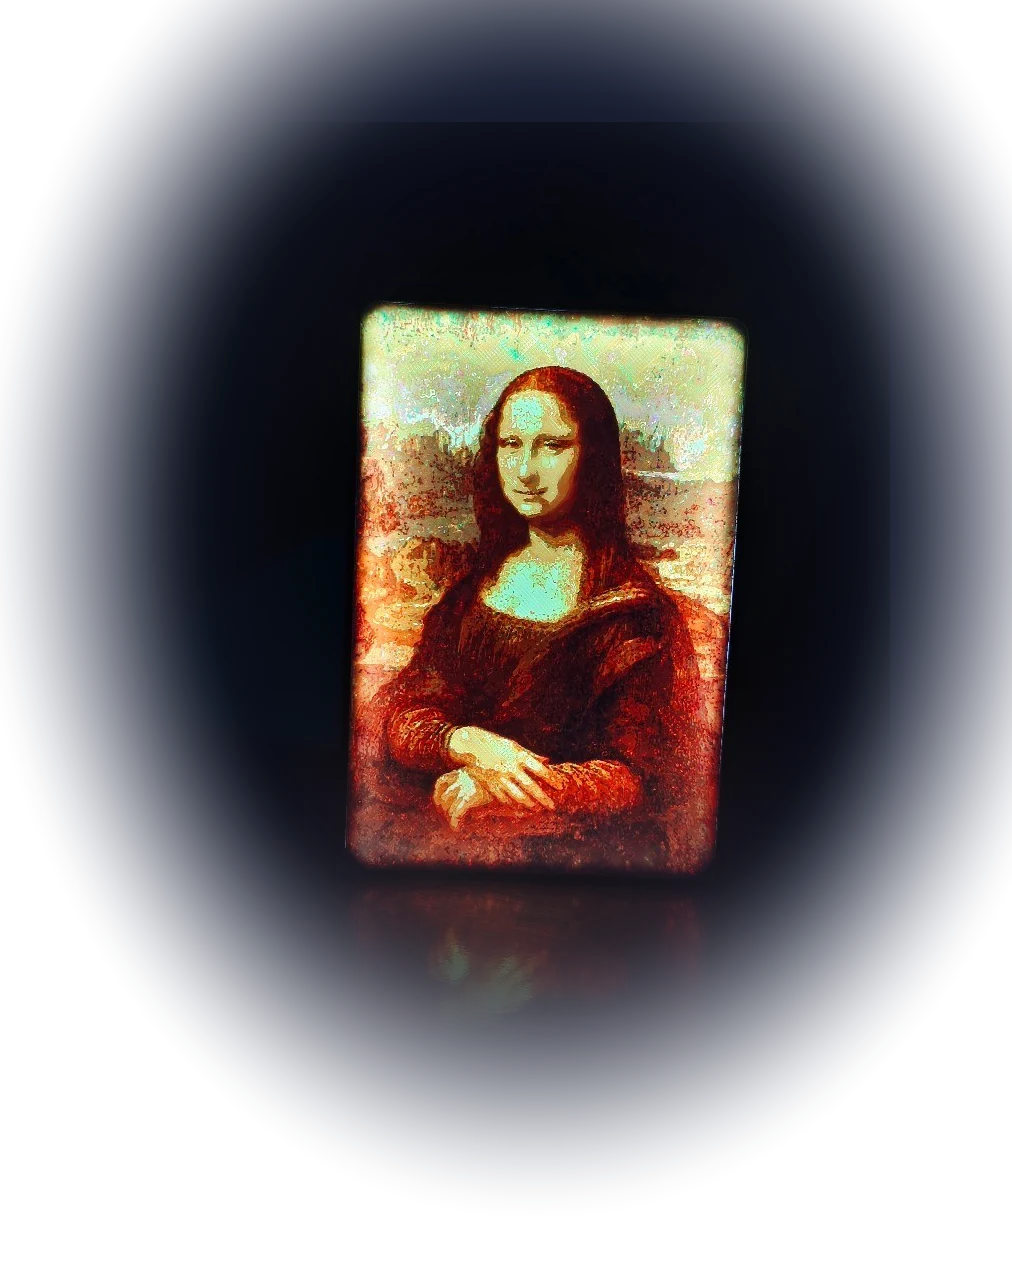
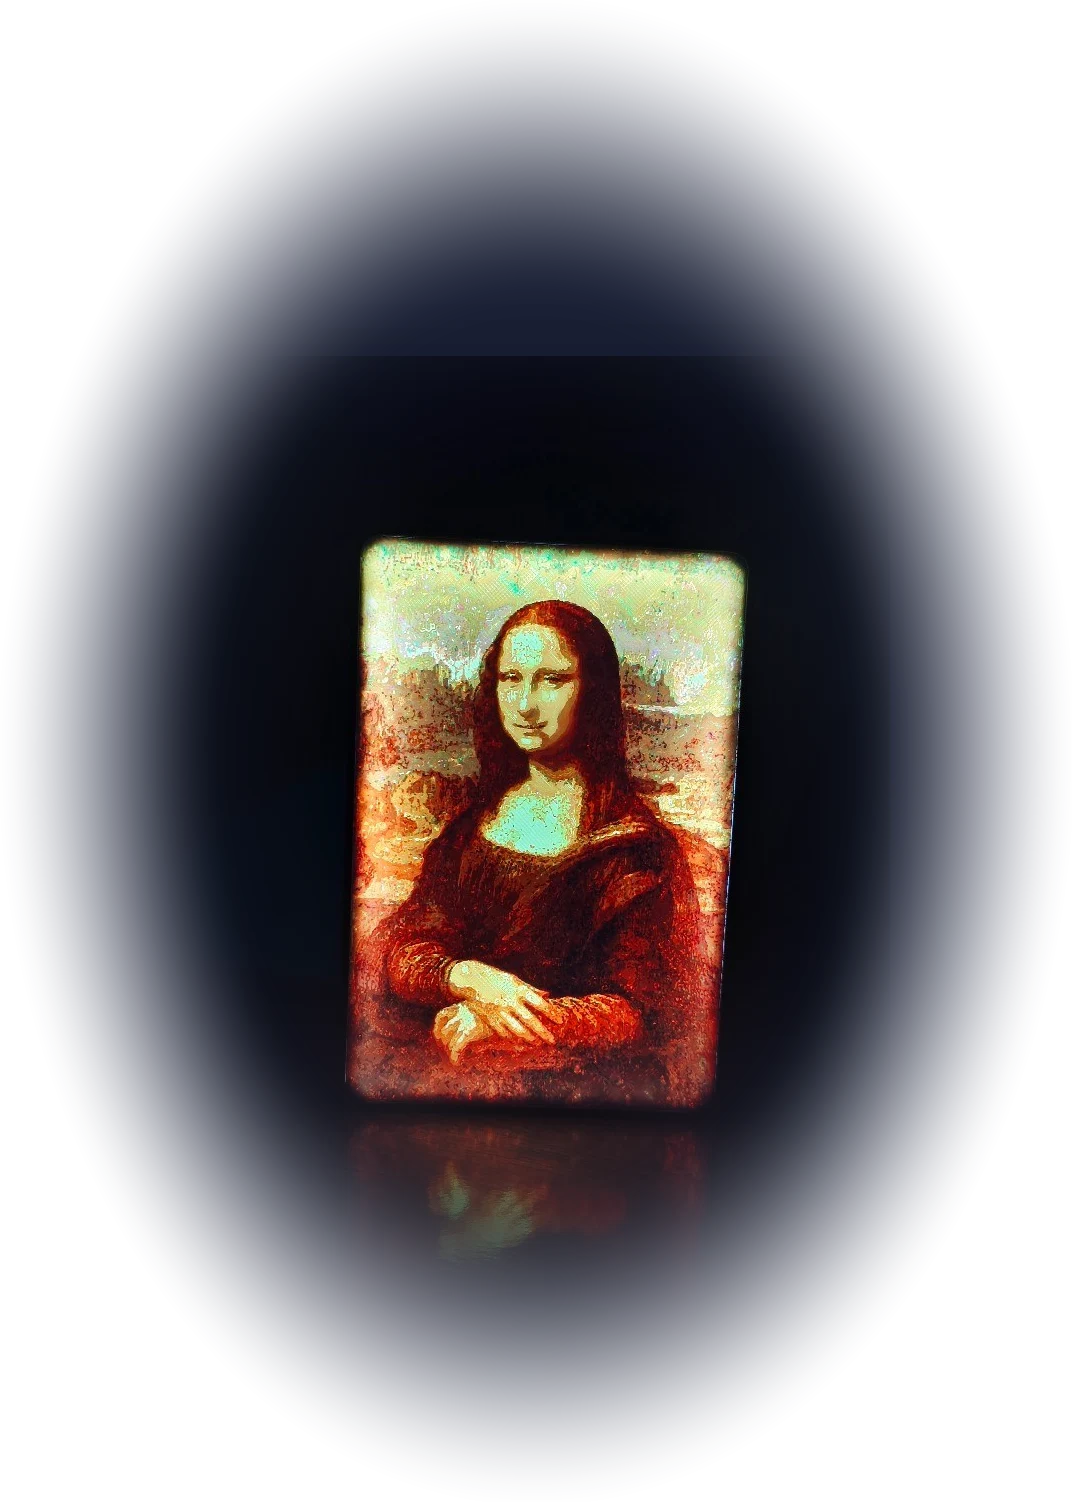
Centre the subject before fading so the photo edge never shows
The elliptical fade was anchored on the subject, but the subject is not in
the middle of the frame, so on whichever sides it sat closest the alpha was
still around a third when it hit the image border — a straight bright edge
across the top and down one side of the hero.

Padding is now asymmetric: the subject is moved to the canvas centre first,
so the ellipse is equidistant from all four borders and always completes.
Measured alpha at every edge of every photo is now 1/255.

diff --git a/web/index.html b/web/index.html
@@ -65,7 +65,7 @@
     </div>
 
     <figure class="hero-figure" data-reveal>
-      <img src="/img/monalisa.webp" alt="点亮的蒙娜丽莎彩色透光灯箱" width="1012" height="1268" fetchpriority="high" />
+      <img src="/img/monalisa.webp" alt="点亮的蒙娜丽莎彩色透光灯箱" width="1072" height="1502" fetchpriority="high" />
       <figcaption>
         <span data-lang-zh>实物拍摄 · 未经修图 · 四色 PLA + 圆角外壳</span>
         <span data-lang-en>Actual print, unretouched · four-colour PLA in a rounded shell</span>
@@ -184,16 +184,16 @@
     </div>
 
     <div class="gallery" data-reveal>
-      <figure class="shot" style="--ar: 0.80">
-        <img src="/img/lit.webp" alt="点亮的透光相册灯" loading="lazy" width="1012" height="1268" />
+      <figure class="shot" style="--ar: 0.64">
+        <img src="/img/lit.webp" alt="点亮的透光相册灯" loading="lazy" width="1036" height="1617" />
         <figcaption><span data-lang-zh>相册灯 · 夜里的样子</span><span data-lang-en>Album light, after dark</span></figcaption>
       </figure>
-      <figure class="shot" style="--ar: 0.80">
-        <img src="/img/handheld.webp" alt="手持彩色透光画" loading="lazy" width="1012" height="1268" />
+      <figure class="shot" style="--ar: 0.82">
+        <img src="/img/handheld.webp" alt="手持彩色透光画" loading="lazy" width="1057" height="1284" />
         <figcaption><span data-lang-zh>1.76 毫米厚，握在手里</span><span data-lang-en>1.76mm thick, in the hand</span></figcaption>
       </figure>
-      <figure class="shot" style="--ar: 1.25">
-        <img src="/img/spongebob.webp" alt="方形彩色透光灯箱" loading="lazy" width="1268" height="1012" />
+      <figure class="shot" style="--ar: 1.12">
+        <img src="/img/spongebob.webp" alt="方形彩色透光灯箱" loading="lazy" width="1440" height="1282" />
         <figcaption><span data-lang-zh>方形款 · 圆角外壳</span><span data-lang-en>Square format, rounded shell</span></figcaption>
       </figure>
     </div>

diff --git a/tools/blend_photos.py b/tools/blend_photos.py
@@ -77,17 +77,33 @@ def blend_into_night(bgr: np.ndarray) -> np.ndarray:
     h0, w0 = bgr.shape[:2]
     cx0, cy0 = subject_center(bgr)
 
-    # 四周补底色留白，确保淡出在画布内走完（否则贴边的照片会被硬生生截断）
-    pad = int(min(h0, w0) * PAD_RATIO)
-    canvas = np.empty((h0 + pad * 2, w0 + pad * 2, 3), np.float32)
-    canvas[:] = NIGHT_BGR
-    canvas[pad : pad + h0, pad : pad + w0] = bgr.astype(np.float32)
-    h, w = canvas.shape[:2]
-    cx, cy = cx0 + pad, cy0 + pad
+    # 主体先补白到画布正中。
+    #
+    # 这一步是必须的：椭圆淡出以主体为圆心，若主体偏向某侧，离得近的那两条
+    # 边还没衰减到 0 就被画幅截断，页面上会看到一条笔直的亮边。补成正中后，
+    # 圆心到四边等距，淡出一定走得完。
+    pad_left = int(max(0.0, w0 - 2 * cx0))
+    pad_right = int(max(0.0, 2 * cx0 - w0))
+    pad_top = int(max(0.0, h0 - 2 * cy0))
+    pad_bottom = int(max(0.0, 2 * cy0 - h0))
 
-    # 归一化椭圆距离：0 = 主体中心，1 ≈ 画布边缘
+    # 再加一圈统一留白，让 alpha 在触到边界之前就已经归零
+    margin = int(min(h0, w0) * PAD_RATIO)
+    pad_left += margin
+    pad_right += margin
+    pad_top += margin
+    pad_bottom += margin
+
+    h = h0 + pad_top + pad_bottom
+    w = w0 + pad_left + pad_right
+    canvas = np.empty((h, w, 3), np.float32)
+    canvas[:] = NIGHT_BGR
+    canvas[pad_top : pad_top + h0, pad_left : pad_left + w0] = bgr.astype(np.float32)
+    cx, cy = w / 2.0, h / 2.0
+
+    # 归一化椭圆距离：0 = 画布中心（即主体），1 = 最近的那条边
     yy, xx = np.mgrid[0:h, 0:w].astype(np.float32)
-    dist = np.sqrt(((xx - cx) / (w * 0.55)) ** 2 + ((yy - cy) / (h * 0.55)) ** 2)
+    dist = np.sqrt(((xx - cx) / (w / 2.0)) ** 2 + ((yy - cy) / (h / 2.0)) ** 2)
 
     # 一条曲线驱动全部三件事，因此不会出现互相错位的边界
     t = smoothstep(dist, 0.34, 0.92)[..., None]
